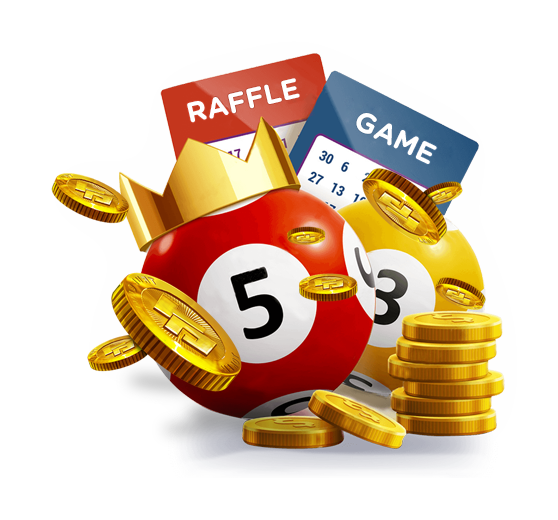
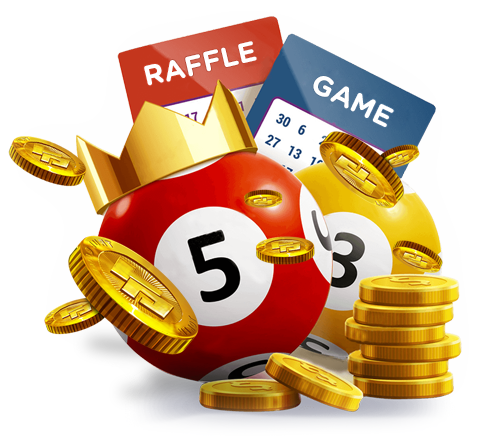
mobile ui

diff --git a/client/src/scenes/Home/index.js b/client/src/scenes/Home/index.js
@@ -4,6 +4,8 @@ import JackPotCountDown from "../../components/JackPotCountDown";
 import AwardTag from "../../components/AwardTag";
 import { connect } from "react-redux";
 import { withRouter } from "react-router-dom";
+import { FontAwesomeIcon } from "@fortawesome/react-fontawesome";
+import { faEthereum } from "@fortawesome/free-brands-svg-icons";
 
 class Home extends PureComponent {
   goToPlayNow = () => {
@@ -19,8 +21,8 @@ class Home extends PureComponent {
         <section id="home">
           <div className="row">
             <div className="col-md-5">
-              <h1>GLOBAL BLOCKCHAIN RAFFLES GAME</h1>
-              <p>Win big daily - Play Now!</p>
+              <h1 className="md-pl-80 pt-50">GLOBAL BLOCKCHAIN RAFFLES GAME</h1>
+              <p className="md-pl-50">Win big daily - Play Now!</p>
               <div className="text-center">
                 <button
                   type="button"
@@ -31,9 +33,9 @@ class Home extends PureComponent {
                 </button>
               </div>
             </div>
-            <div className="col-md-2 col-sm-6 award">
+            <div className="col-md-3 col-sm-6 award d-none d-sm-block">
               <img
-                style={{ maxHeight: "300px" }}
+                className="img-fluid"
                 src="/img/bare-home-current-pot.png"
                 alt=""
               />
@@ -41,9 +43,15 @@ class Home extends PureComponent {
                 <AwardTag value={totalPot} symbol="&#x29eb;" />
               </div>
             </div>
-            <div className="col-md-5 col-sm-6">
+            <div className="col pt-50 text-center d-block d-sm-none xs-currentpot">
+              <p style={{marginBottom:0}}>Current pot:</p>
+              <h2 className="text-center">
+                <FontAwesomeIcon icon={faEthereum} /> {totalPot}
+              </h2>
+            </div>
+            <div className="col-md-4 col-sm-6">
               <img
-                style={{ maxHeight: "350px" }}
+                className="img-fluid md-pt-50"
                 src="/img/home-raffles-game.png"
                 alt=""
               />
@@ -52,7 +60,7 @@ class Home extends PureComponent {
         </section>
         <section id="raffles">
           <div className="row text-center">
-            <div className="col-md-12">
+            <div className="col-md-12 xsnopadding">
               <img
                 className="home-img-countdown"
                 alt=""
@@ -66,7 +74,7 @@ class Home extends PureComponent {
           <div className="row">
             <div className="col-md-6">
               <img
-                style={{ maxHeight: "250px", paddingLeft: "50px" }}
+                className="img-fluid md-pl-50"
                 src="/img/raffles-img.png"
                 alt=""
               />
@@ -98,7 +106,11 @@ class Home extends PureComponent {
               >
                 Join now!
               </button>
-              <button type="button" className="btn-red" onClick={this.goToPlayNow}>
+              <button
+                type="button"
+                className="btn-red"
+                onClick={this.goToPlayNow}
+              >
                 Results
               </button>
             </div>
@@ -170,10 +182,7 @@ class Home extends PureComponent {
         </section>
         <section id="crypto-raffles">
           <div className="row">
-            <div
-              className="col-md-6"
-              style={{ paddingLeft: "80px", paddingTop: "50px" }}
-            >
+            <div className="col-md-6 md-pl-80 pl-50">
               <h3>What is Crypto Raffles?</h3>
               <p>
                 Crypto Raffles is the world first truly fair raffle game. You
@@ -181,10 +190,18 @@ class Home extends PureComponent {
                 laboris nisi ut aliquip ex ea commodo consequat. Duis aute irure
                 dolor in reprehenderit .
               </p>
-              <button type="button" className="btn-red" onClick={this.goToPlayNow}>
+              <button
+                type="button"
+                className="btn-red"
+                onClick={this.goToPlayNow}
+              >
                 Join now!
               </button>
-              <button type="button" className="btn-blue" onClick={this.goToPlayNow}>
+              <button
+                type="button"
+                className="btn-blue"
+                onClick={this.goToPlayNow}
+              >
                 Results
               </button>
             </div>

diff --git a/client/src/index.css b/client/src/index.css
@@ -70,17 +70,17 @@ header {
 }
 
 .row {
-  margin: 0!important;
+  margin: 0 !important;
 }
 
 .identicon {
   border-radius: 50%;
-  -webkit-box-shadow: 0px 0px 10px 0px rgba(173,173,173,1);
-  -moz-box-shadow: 0px 0px 10px 0px rgba(173,173,173,1);
-  box-shadow: 0px 0px 10px 0px rgba(173,173,173,1);
+  -webkit-box-shadow: 0px 0px 10px 0px rgba(173, 173, 173, 1);
+  -moz-box-shadow: 0px 0px 10px 0px rgba(173, 173, 173, 1);
+  box-shadow: 0px 0px 10px 0px rgba(173, 173, 173, 1);
   vertical-align: middle !important;
 }
-.logged-in span{
+.logged-in span {
   padding-right: 20px;
 }
 .navbar-nav {
@@ -92,7 +92,7 @@ header {
   padding-left: 10px;
   padding-right: 10px;
 }
-.navbar-nav a{
+.navbar-nav a {
   color: #2f353a;
 }
 
@@ -102,14 +102,6 @@ header {
   color: #fff;
 }
 
-#home h1 {
-  padding-top: 50px;
-  padding-left: 80px;
-}
-
-#home p {
-  padding-left: 80px;
-}
 
 #home .btn-primary-home {
   background-color: red;
@@ -268,8 +260,8 @@ footer li.list-group-item {
 
 .award .centered {
   position: absolute;
-  top: 48%;
-  left: 48%;
+  top: 55%;
+  left: 45%;
   transform: translate(-48%, -48%);
 }
 
@@ -298,8 +290,7 @@ footer li.list-group-item {
   padding: 30px 0;
 }
 
-
-.row-playonline{
+.row-playonline {
   padding: 10px;
   border-radius: 5px;
   background-color: rgba(138, 138, 138, 0.5);
@@ -317,10 +308,63 @@ footer li.list-group-item {
   background-color: rgba(138, 138, 138, 0.5);
   margin-top: 20px !important;
 }
-.row-howitwork{
+.row-howitwork {
   padding: 10px;
   border-radius: 5px;
   background-color: rgba(138, 138, 138, 0.5);
   margin-top: 20px !important;
   margin-bottom: 20px !important;
 }
+.pt-50{
+  padding-top: 50px;
+}
+.xs-currentpot{
+  background-image: url(/img/home-current-pot-bg.png);
+  background-repeat: no-repeat;
+  background-position: center;
+  background-size: contain;
+  min-height: 200px !important;
+  margin-top: 30px;
+}
+@media only screen and (max-width: 1000px) {
+  .award .centered {
+    position: absolute;
+    left: 45%;
+    top:55%;
+  }
+}
+
+@media only screen and (max-width: 860px) {
+}
+@media only screen and (max-width: 768px) {
+  .navbar-brand {
+    margin-right: 0 !important;
+  }
+  .navbar-brand img {
+    max-width: 160px;
+  }
+  .home-img-countdown {
+    height: 150px;
+    margin-top: -75px;
+    max-width: 400px;
+    margin-left: -15px;
+  }
+  #raffles .centered {
+    width: 100%;
+  }
+  .xsnomargin{
+    margin: 0 !important;
+  }
+  .xsnopadding{
+    padding: 0 !important;
+  }
+}
+@media only screen and (min-width: 992px) {
+.md-pl-50{
+  padding-left: 50px;
+}
+.md-pl-80{
+  padding-left: 80px;
+}
+}
+
